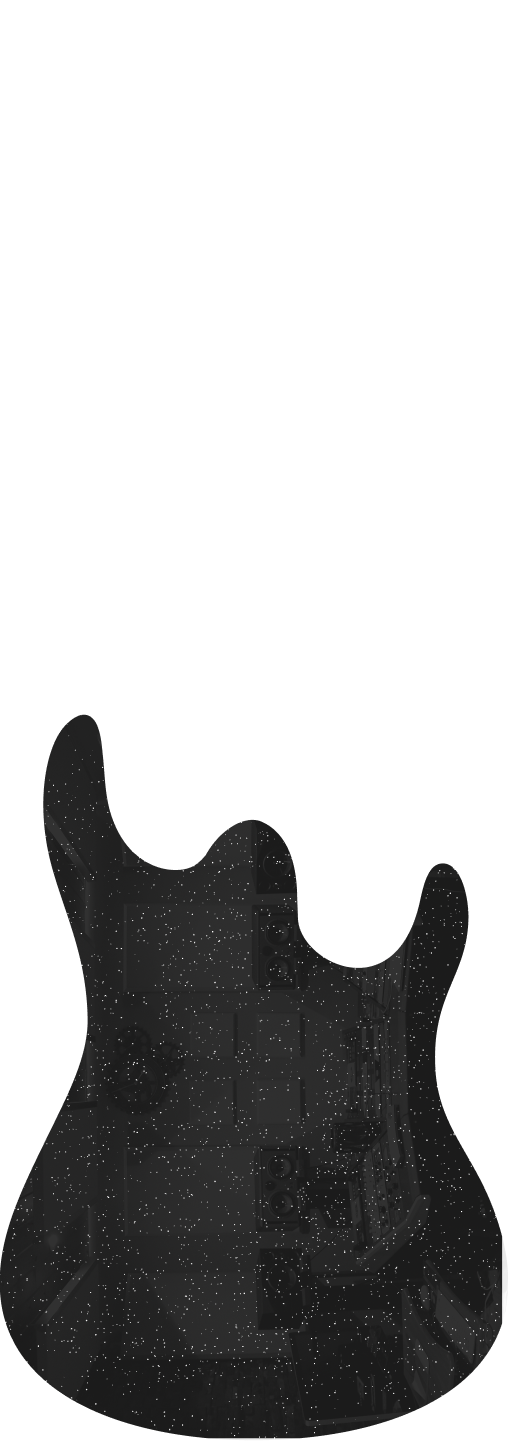
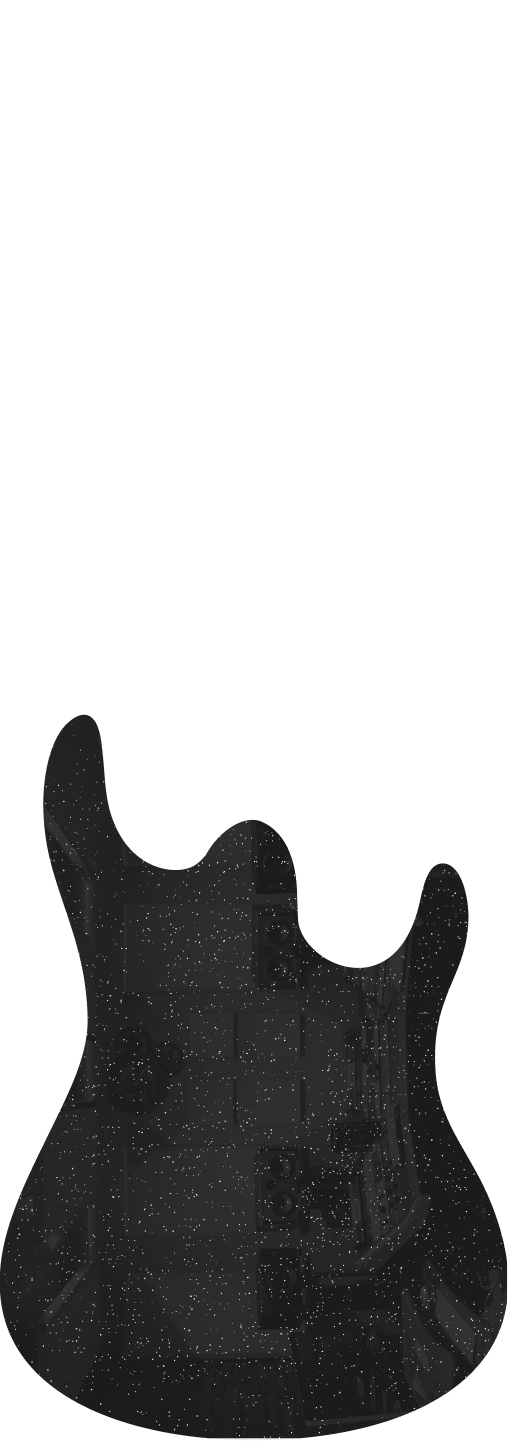
Updates

diff --git a/src/lib/imageMapping.ts b/src/lib/imageMapping.ts
@@ -11,6 +11,8 @@ export const imageMapping = {
   'omni-corpo-paulownia-cinza.png': '/images/omni-corpo-paulownia-cinza.png',
   'omni-corpo-mogno.png': '/images/omni-corpo-mogno.png',
   'omni-corpo-mogno-verso.png': '/images/omni-corpo-mogno-verso.png',
+  'omni-corpo-black-limba.png': '/images/omni-corpo-black-limba.png',
+  'omni-corpo-black-limba-verso.png': '/images/omni-corpo-black-limba-verso.png',
   'omni-corpo-freijo.png': '/images/omni-corpo-freijo.png',
   'omni-corpo-freijo-vermelho.png': '/images/omni-corpo-freijo-vermelho.png',
   'omni-corpo-freijo-roxo.png': '/images/omni-corpo-freijo-roxo.png',

diff --git a/index.html b/index.html
@@ -1,9 +1,7 @@
-
 <!DOCTYPE html>
 <html lang="en">
   <head>
     <meta charset="UTF-8" />
-    <link rel="icon" type="image/svg+xml" href="/favicon.ico" />
     <meta name="viewport" content="width=device-width, initial-scale=1.0" />
     <title>Pluria Guitar Configurator</title>
     <meta name="description" content="Configure your custom Pluria guitar" />
